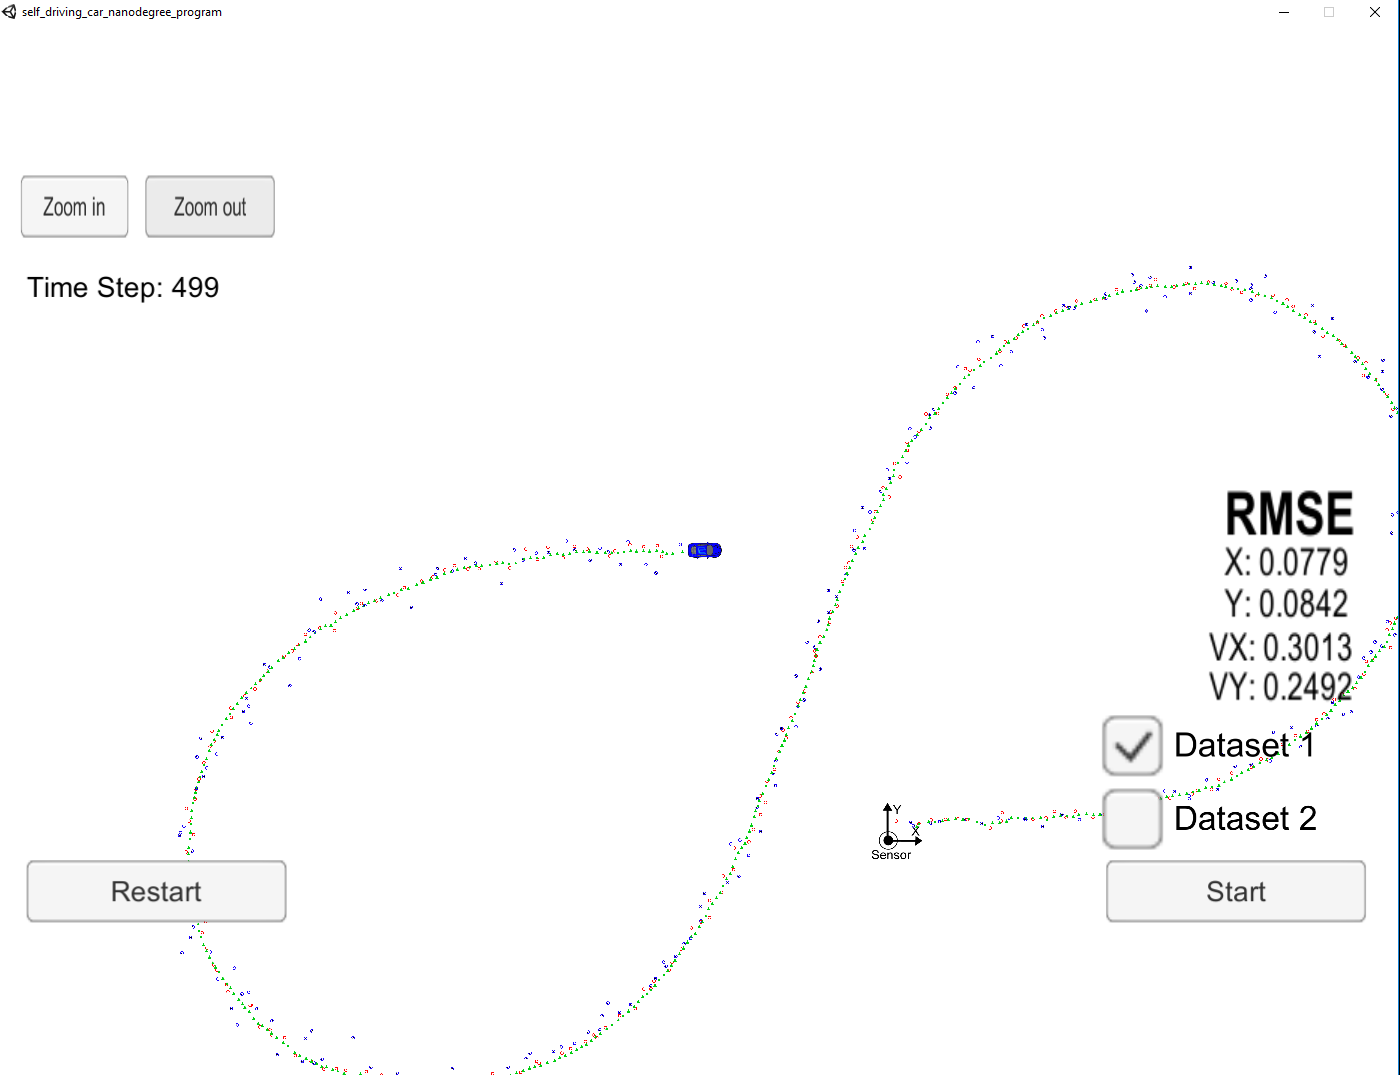
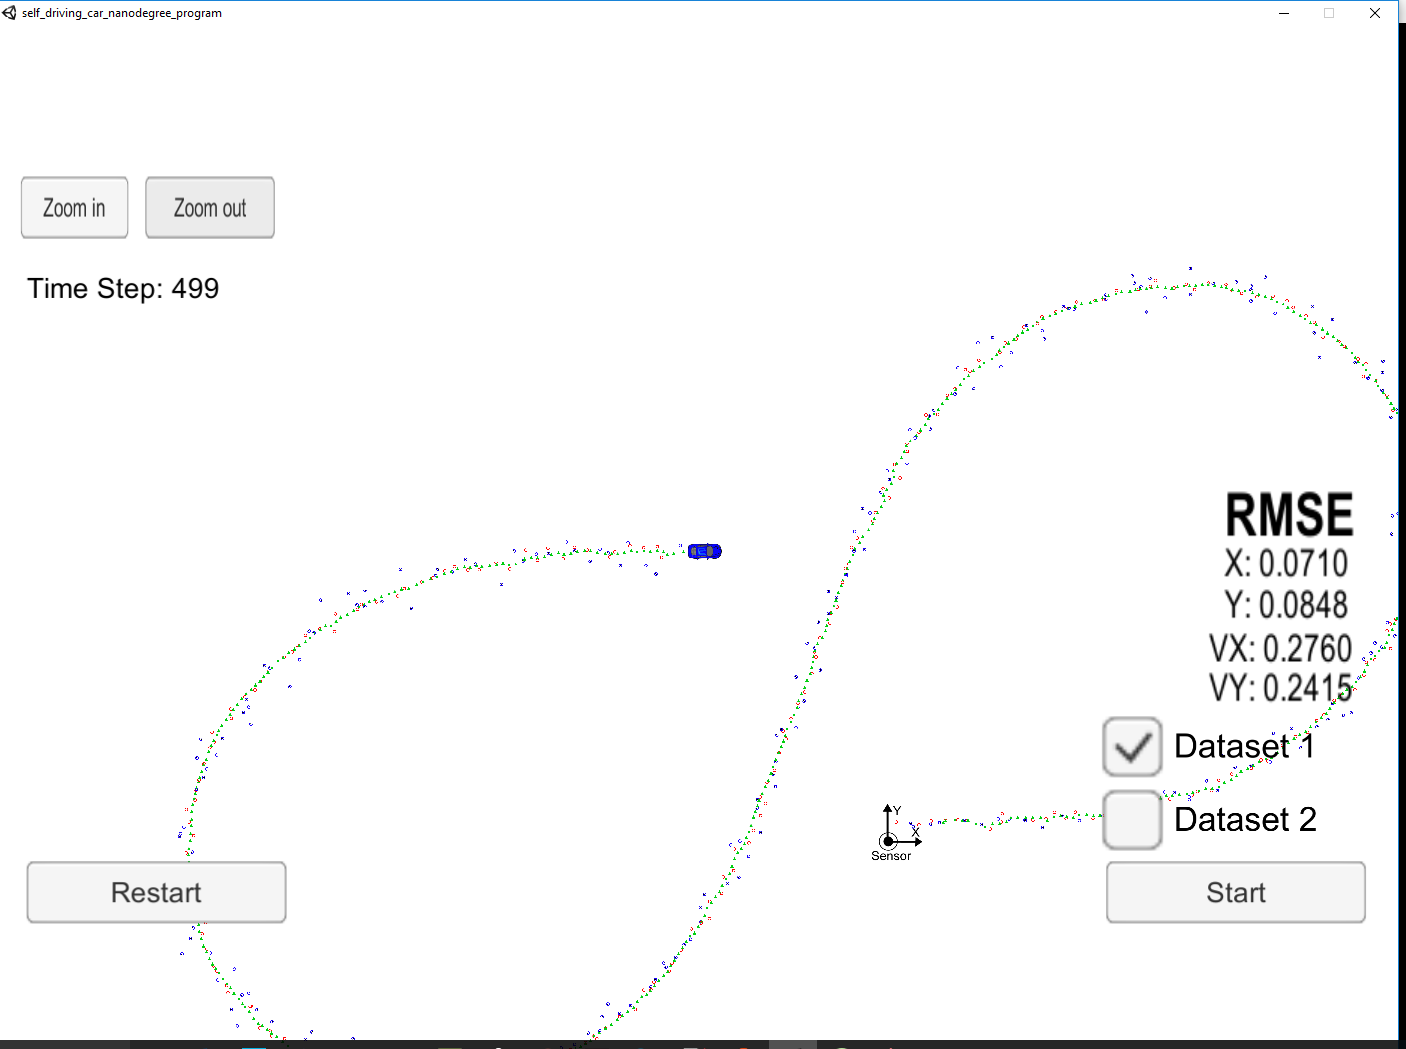
UpdateLidar changed to Kalman equations

diff --git a/src/ukf.cpp b/src/ukf.cpp
@@ -27,10 +27,10 @@ UKF::UKF() {
   P_ = MatrixXd(5, 5);
 
   // Process noise standard deviation longitudinal acceleration in m/s^2
-  std_a_ = 3;
+  std_a_ = 2;
 
   // Process noise standard deviation yaw acceleration in rad/s^2
-  std_yawdd_ = 0.3;
+  std_yawdd_ = 0.5 * M_PI;
 
   //DO NOT MODIFY measurement noise values below these are provided by the sensor manufacturer.
   // Laser measurement noise standard deviation position1 in m
@@ -250,9 +250,10 @@ void UKF::Prediction(double delta_t) {
 
     //predicted state values
     double px_p, py_p;
+    const double yaw_check = 0.001;
 
     //avoid division by zero
-    if (fabs(yawd) > 0.001) {
+    if (fabs(yawd) > yaw_check) {
       px_p = p_x + v / yawd * (sin(yaw + yawd * delta_t) - sin(yaw));
       py_p = p_y + v / yawd * (cos(yaw) - cos(yaw + yawd * delta_t));
     }
@@ -325,85 +326,47 @@ void UKF::UpdateLidar(MeasurementPackage meas_package) {
 
   You'll also need to calculate the lidar NIS.
   */
-  //set measurement dimension, radar can measure r, phi, and r_dot
-  int n_z = 2;
+  /* Update the state by using Kalman Filter equations
+  */
 
-  //create matrix for sigma points in measurement space
-  MatrixXd Zsig = MatrixXd(n_z, 2 * n_aug_ + 1);
+  // Laser Measurement values
+  VectorXd z = VectorXd(5);
+  z << meas_package.raw_measurements_[0], //px
+       meas_package.raw_measurements_[1], //py
+       0.0, //v
+       0.0, //yaw
+       0.0; //yawdot
 
-  //transform sigma points into measurement space
-  for (int i = 0; i < 2 * n_aug_ + 1; i++) {  //2n+1 sigma points
+  // Create a measurement matrix
+  MatrixXd H = MatrixXd(2, 5);
 
-     // extract values for better readibility
-     double p_x = Xsig_pred_(0,i);
-     double p_y = Xsig_pred_(1,i);
+  // Create a measurement covariance matrix
+  MatrixXd R = MatrixXd(2, 2);
 
-     // measurement model
-     Zsig(0,i) = p_x;
-     Zsig(1,i) = p_y;
- }
+  // Initializing measurement matrices
+  H << 1, 0, 0, 0, 0,
+       0, 1, 0, 0, 0;
 
- //mean predicted measurement
- VectorXd z_pred = VectorXd(n_z);
- z_pred.fill(0.0);
- for (int i=0; i < 2*n_aug_+1; i++) {
-     z_pred = z_pred + weights_(i) * Zsig.col(i);
- }
+  R << 0.0225, 0,
+       0, 0.0225;
 
- //innovation covariance matrix S
- MatrixXd S = MatrixXd(n_z,n_z);
- S.fill(0.0);
- for (int i = 0; i < 2 * n_aug_ + 1; i++) {  //2n+1 simga points
-   //residual
-   VectorXd z_diff = Zsig.col(i) - z_pred;
 
-   S = S + weights_(i) * z_diff * z_diff.transpose();
- }
+  VectorXd z_pred = H * x_;
+	VectorXd y = z.head(2) - z_pred;
+	MatrixXd Ht = H.transpose();
+	MatrixXd S = H * P_ * Ht + R;
+	MatrixXd Si = S.inverse();
+	MatrixXd PHt = P_ * Ht;
+	MatrixXd K = PHt * Si; // Kalman Filter Gain
 
- //add measurement noise covariance matrix
- MatrixXd R = MatrixXd(n_z,n_z);
- R <<    std_laspx_ * std_laspx_, 0,
-         0, std_laspy_ * std_laspy_;
- S = S + R;
-
- /*****************************************************************************
-   *  UKF Update for lidar
-   ****************************************************************************/
-
-  //create vector for incoming radar measurement
-  VectorXd z = meas_package.raw_measurements_;
-
- //create matrix for cross correlation Tc
-  MatrixXd Tc = MatrixXd(n_x_, n_z);
-
-  //calculate cross correlation matrix
-  Tc.fill(0.0);
-  for (int i = 0; i < 2 * n_aug_ + 1; i++) {  //2n+1 simga points
-
-    //residual
-    VectorXd z_diff = Zsig.col(i) - z_pred;
-
-    // state difference
-    VectorXd x_diff = Xsig_pred_.col(i) - x_;
-
-    Tc = Tc + weights_(i) * x_diff * z_diff.transpose();
-  }
-
-  //Kalman gain K;
-  MatrixXd K = Tc * S.inverse();
-
-  //residual
-  VectorXd z_diff = z - z_pred;
+	//new estimate
+	x_ = x_ + (K * y);
+	long x_size = x_.size();
+	MatrixXd I = MatrixXd::Identity(x_size, x_size);
+	P_ = (I - K * H) * P_;
 
   //calculate NIS
-  NIS_laser_ = z_diff.transpose() * S.inverse() * z_diff;
-
-  //update state mean and covariance matrix
-  x_ = x_ + K * z_diff;
-  P_ = P_ - K * S * K.transpose();
-
-  //calculate NIS
-  NIS_laser_ = z_diff.transpose() * S.inverse() * z_diff;
+  NIS_laser_ = y.transpose() * S.inverse() * y;
 
 }
 
@@ -438,10 +401,17 @@ void UKF::UpdateRadar(MeasurementPackage meas_package) {
    double v1 = cos(yaw)*v;
    double v2 = sin(yaw)*v;
 
+   const double eps = 0.0001; // Used to avoid divide by 0
+
    // measurement model
    Zsig(0,i) = sqrt(p_x*p_x + p_y*p_y);                        //r
-   Zsig(1,i) = atan2(p_y,p_x);                                 //phi
-   Zsig(2,i) = (p_x*v1 + p_y*v2 ) / sqrt(p_x*p_x + p_y*p_y);   //r_dot
+   if (p_y == 0.0 && p_x == 0) {
+      Zsig(1,i) = 0.0;
+   }
+   else {
+     Zsig(1,i) = atan2(p_y,p_x);                                 //phi
+   }
+   Zsig(2,i) = (p_x*v1 + p_y*v2 ) / std::max( eps, sqrt(p_x*p_x + p_y*p_y));   //r_dot
  }
 
  //mean predicted measurement
